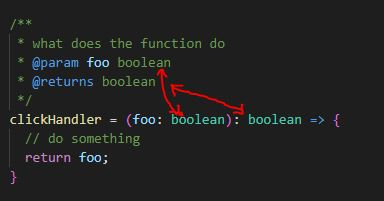
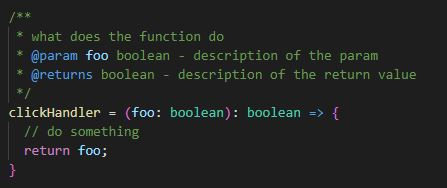
convention changes

diff --git a/src/app/components/sidebar/sidebar.component.html b/src/app/components/sidebar/sidebar.component.html
@@ -20,6 +20,7 @@
                 <li class="level-2"><a routerLink="" class="disabled"><span>Flexbox / CSS-Grid</span></a></li>
                 <li class="level-2"><a routerLink="" class="disabled"><span>MaterialUI/DevExpress</span></a></li>
                 <li class="level-2"><a routerLink="" class="disabled"><span>Iconfonts</span></a></li>
+                <li class="level-2"><a routerLink="" class="disabled"><span>Redux</span></a></li>
                 <li class="level-2"><a routerLink="" class="disabled"><span>NVM</span></a></li>
                 <li class="level-2"><a routerLink="" class="disabled"><span>Localstorage</span></a></li>
             </ul>
@@ -27,26 +28,14 @@
         <li class="level-1">
             <a routerLink="" class="disabled">
                 <fa-icon [icon]="faChevronRight"></fa-icon>
-                <span>Redux Store</span>
+                <span>Examples</span>
             </a>
-        </li>
-        <li class="level-1">
-            <a routerLink="" class="disabled">
-                <fa-icon [icon]="faChevronRight"></fa-icon>
-                <span>OpenId</span>
-            </a>
-        </li>
-        <li class="level-1">
-            <a routerLink="" class="disabled">
-                <fa-icon [icon]="faChevronRight"></fa-icon>
-                <span>PWA</span>
-            </a>
-        </li>
-        <li class="level-1">
-            <a routerLink="" class="disabled">
-                <fa-icon [icon]="faChevronRight"></fa-icon>
-                <span>Testing</span>
-            </a>
+            <ul>
+                <li class="level-2"><a routerLink="" class="disabled"><span>Redux Store</span></a></li>
+                <li class="level-2"><a routerLink="" class="disabled"><span>OpenId</span></a></li>
+                <li class="level-2"><a routerLink="" class="disabled"><span>PWA</span></a></li>
+                <li class="level-2"><a routerLink="" class="disabled"><span>Testing</span></a></li>
+            </ul>
         </li>
     </ul>
 </nav>

diff --git a/src/app/views/codeConventions/html/html.component.html b/src/app/views/codeConventions/html/html.component.html
@@ -4,11 +4,7 @@
     <h3>1. Valid and readable markup</h3>
     <ul>
         <li>write everything lowercase</li>
-        <li>take care of the correct indentation
-            <ul>
-                <li>spaces</li>
-            </ul>
-        </li>
+        <li>indentation: 4 spaces</li>
         <li>120 chars per line
             <ul>
                 <li>settings.json =&gt; "editor.rulers": [ 120 ]</li>
@@ -22,7 +18,14 @@
         </li>
         <li>organize DOM-Elements:
             <ul>
-                <li>rather use semantic HTML5-elements instead of just a "div"</li>
+                <li>rather use semantic HTML5-elements instead of just a "div"
+                    <ul>
+                        <li>Header,</li>
+                        <li>Footer,</li>
+                        <li>Nav,</li>
+                        <li>aside, ...</li>
+                    </ul>
+                </li>
                 <li>ask yourself if you need a block-element or not
                     <ul>
                         <li>(span {{"{display: block}"}} =&gt; just div)</li>
@@ -56,8 +59,8 @@
 
             <ol>
                 <li>Header: waiting for downloading and execution</li>
-                <li>Body with async attribut: rendering is paused until the file is executed</li>
-                <li>Body with defer attribut: download and execution following after the rendering</li>
+                <li>Body with async attribut: DOM rendering is paused until the file is executed</li>
+                <li>Body with defer attribut: download and execution following after the DOM rendering</li>
             </ol>
 
         </li>

diff --git a/src/app/views/codeConventions/css/css.component.html b/src/app/views/codeConventions/css/css.component.html
@@ -54,7 +54,6 @@
             <img src="/assets/images/scss-import.JPG" alt="scss import file" />
         </div>
     </div>
-
 </div>
 
 <div class="content-block">
@@ -93,21 +92,15 @@
         </ul>
     </div>
     <div class="col-6">
-        <img src="assets/images/scss-bem.JPG" alt="BEM naming example" />
+        <img src="assets/images/scss-bem.JPG" alt="BEM naming example" width="282" height="388" />
     </div>
 </div>
 
 <div class="content-block row">
     <div class="col-6">
-        <h3>5 Mobile first</h3>
+        <h3>5. Mobile first</h3>
         <p>Mobile first means that we scale our application design from small to large. This concept provides that the
             version optimized for mobile devices is created first and successive extensions take place.</p>
-
-        <ul>
-            <li>Block: The sole root of the component</li>
-            <li>Element: A component part of the Block</li>
-            <li>Modifier: A variant or extension of the Block</li>
-        </ul>
     </div>
     <div class="col-6">
         <img src="assets/images/scss-mobile-first.JPG" alt="mobile first example" />

diff --git a/src/app/views/codeConventions/js/js.component.html b/src/app/views/codeConventions/js/js.component.html
@@ -61,17 +61,16 @@
 <div class="content-block">
     <h3>7. Comments</h3>
     <ul>
-        <li>add a doctype on every function with a short description:
+        <li>add a JSDoc comment on every function with a short description, also for TS-Files:
             <ul>
                 <li>what the function does</li>
-                <li>which params are expected (not needed if the params are declared in typescript)</li>
-                <li>which return value is expected (not needed if the return value is declared in typescript)</li>
+                <li>which params are expected</li>
+                <li>which return value is expected</li>
             </ul>
         </li>
         <li>if the code is not easy to read, then write the code more easy or add short comment</li>
     </ul>
-    <img src="/assets/images/js-comments.JPG" alt="JS declarations" width="384" height="201"/>
-    <p>Add the param type either in doctype or at the param itself (typescript) - be consistent.</p>
+    <img src="/assets/images/js-comments.JPG" alt="JS declarations" width="447" height="188"/>
 </div>
 
 <div class="content-block">

diff --git a/src/assets/styles/_default.scss b/src/assets/styles/_default.scss
@@ -42,19 +42,22 @@ body .container {
     margin: rem-calc(20) 0;
 }
 
-
-.button--cta {
+.button {
     background: #ffffff;
     color: #000000;
     padding: 5px 10px;
 
-    &.button--cta__green {
+    &.button--cta {
         background: green;
+
+        &.button--cta__disabled {
+            background: gray;
+        }
     }
 
-    &.button--cta__icon {
+    &.button--icon {
         &:before {
-            content: '&foo';
+            content: 'icon';
             padding-right: 10px;
         }
     }

diff --git a/src/app/views/codeConventions/js/js.component.ts b/src/app/views/codeConventions/js/js.component.ts
@@ -41,8 +41,8 @@ export class JsComponent implements OnInit {
 
   /**
    * what does the function do
-   * @param foo boolean
-   * @returns boolean
+   * @param foo boolean - description of the param
+   * @returns boolean - description of the return value
    */
   clickHandler = (foo: boolean): boolean => {
     // do something

diff --git a/src/app/app.component.html b/src/app/app.component.html
@@ -5,9 +5,9 @@
 
 <section class="container">
     <div class="row">
-        <div class="col-12 col-md-2 sidebar">
+        <aside class="col-12 col-md-2 sidebar">
             <app-sidebar></app-sidebar>
-        </div>
+        </aside>
 
         <div class="col-12 col-md-10">
             <section class="content">
